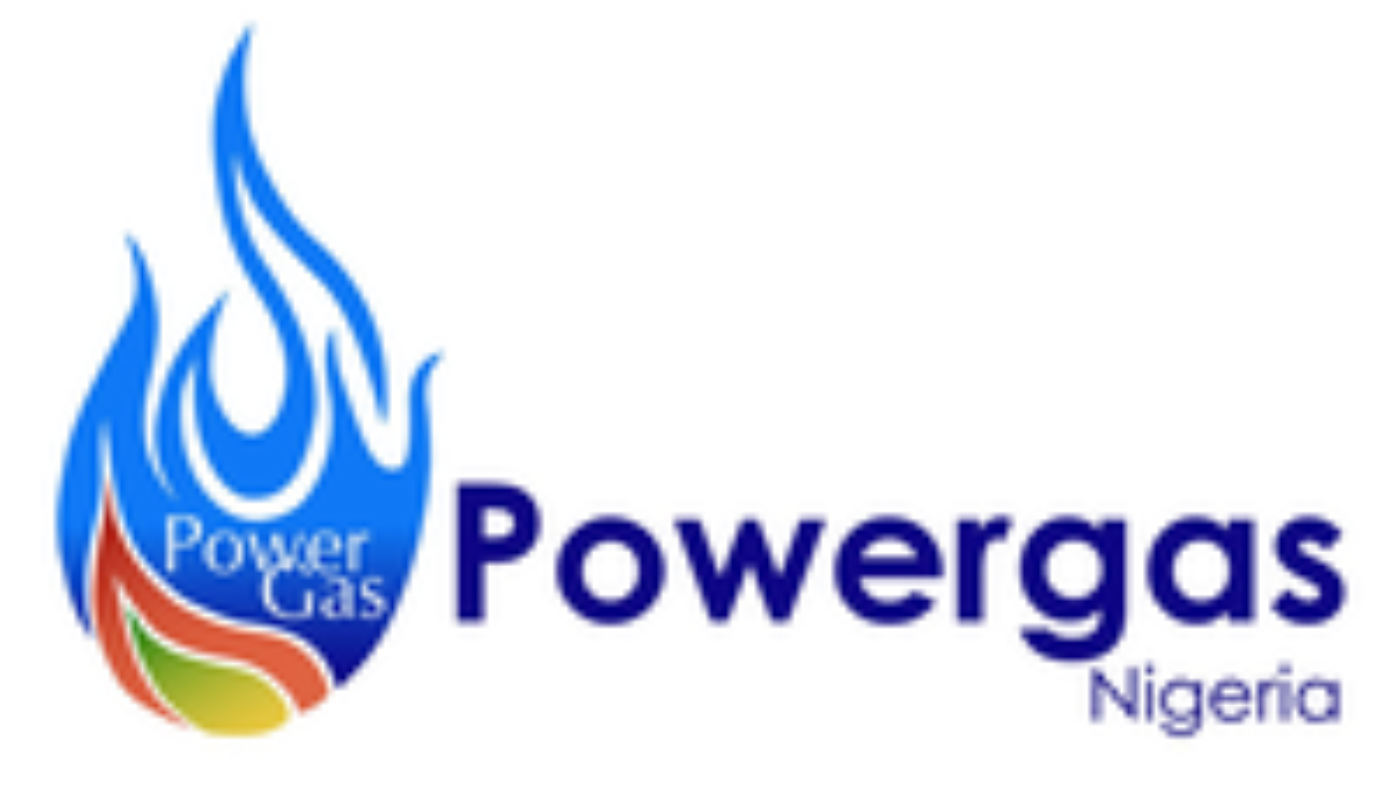
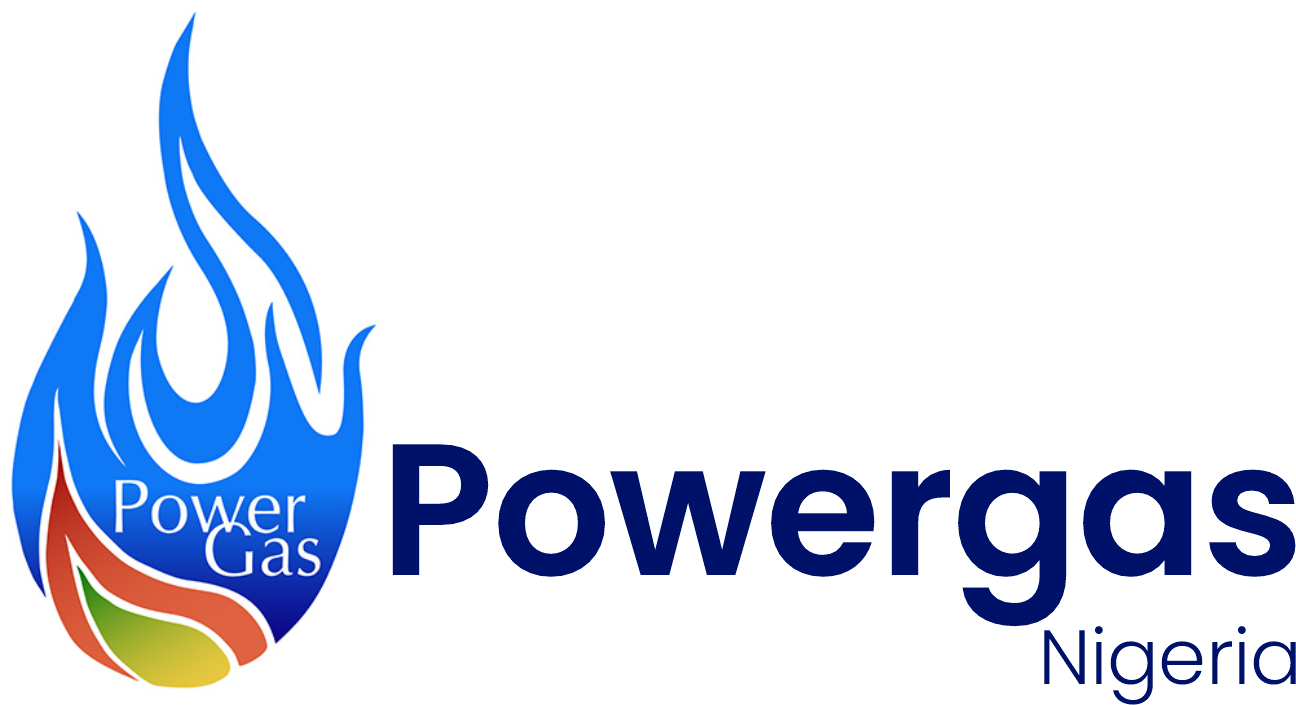
Added sponsor and speaker

Changed region(s): [[0.0, 0.0312, 1.0, 1.0]]

diff --git a/index.html b/index.html
@@ -659,9 +659,10 @@
             <br />
           </div>
           <div class="container text-center">
-            <h3 class="title"><b>BRONZE SPONSOR</b></h3>
+            <h3 class="title"><b>BRONZE SPONSORS</b></h3>
             <div class="row text-center" style="display: block;">
               <img src="images/sponsors/cecom-logo.png" alt="Image" style="width: 200px;margin: 20px;"/>
+              <img src="images/sponsors/powergas.png" alt="Image" style="width: 200px;margin: 20px;"/>
             </div>
             <br />
           </div>
@@ -1235,15 +1236,16 @@
             </div>
           </div>
           <div class="col">
-            <!-- <div class="sales-team">
+            <div class="sales-team">
               <figure>
-                <img src="images/speakers/nsosa.jpg" alt="Image" />
+                <img src="images/speakers/effiong.jpg" alt="Image" />
               </figure>
               <div class="infos">
-                <h6>Nosa Osazuwa</h6>
-                <small>Partner</small> <b>ENR Advisory</b>
+                <h6>Effiong Okon</h6>
+                <small>Director</small> <b>New Energy,
+                  Seplat Energy Plc</b>
               </div>
-            </div> -->
+            </div>
           </div>
           <div class="col">
             <!-- <div class="sales-team">
